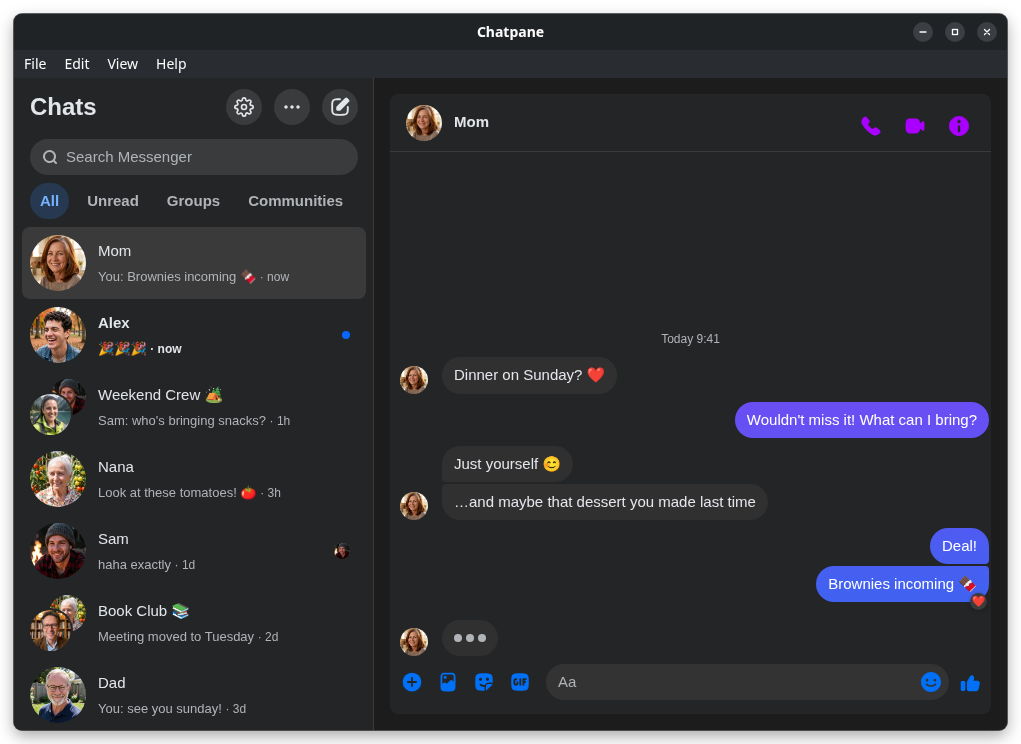
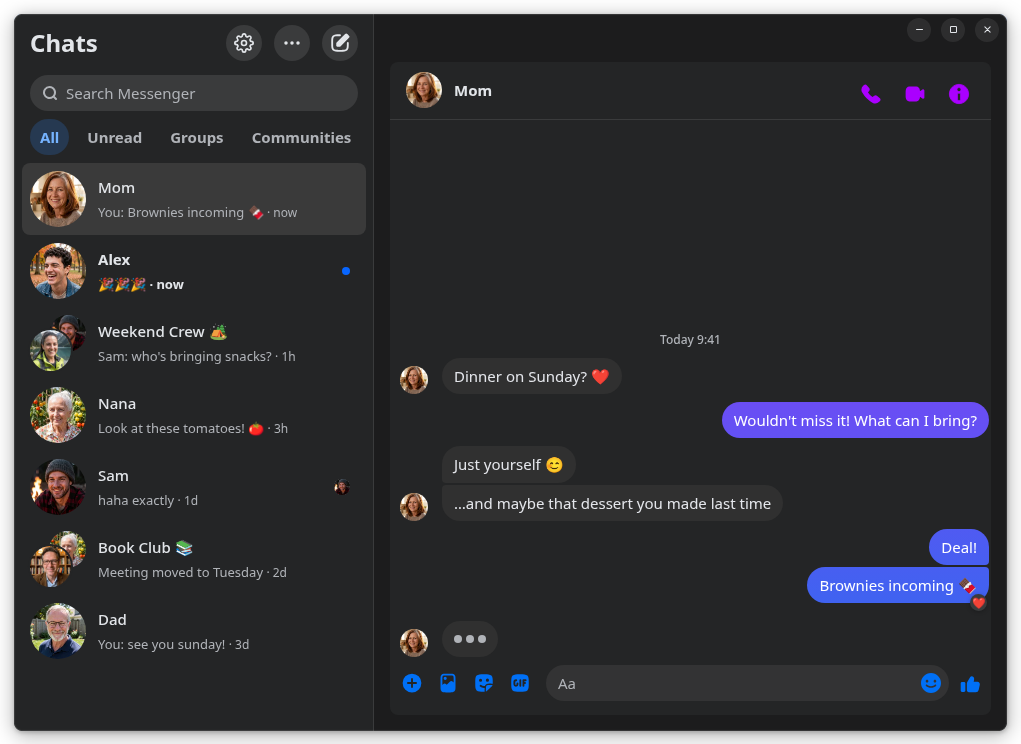
docs: show 3.x window controls in the Linux screenshots
The Linux store screenshots still showed a KDE title bar and menu bar.
Since 3.0, floating Linux desktops get no title bar and Chatpane draws its
own round window buttons. Re-render both from the site's Linux mock.

diff --git a/packaging/screenshots/README.md b/packaging/screenshots/README.md
@@ -6,10 +6,14 @@ real conversations, contact names, photos, notifications, IDs, or personal deskt
 None of the images in `docs/screenshots/` are captures of the app. They are
 renders of the website's window mock in `docs/index.html`.
 
-- **Linux** (`chatpane-linux-en-*.png`): the mock framed as a KDE Breeze window
-  with the title `Chatpane` and a File, Edit, View and Help menu bar. Both PNGs
-  are 1021 × 744 pixels. Light is the default AppStream screenshot; use dark
-  first and light second in the Snap listing.
+- **Linux** (`chatpane-linux-en-*.png`): the mock in its Linux mode, as Chatpane
+  3.x looks on a floating desktop (KDE Plasma, GNOME) with the title bar setting
+  on Automatic: no title bar, Chatpane's own round minimize, maximize and close
+  buttons at the top right, and the menu bar hidden. Rendered with Noto Sans
+  and Noto Color Emoji, with a rounded border and a soft shadow on a
+  transparent background. Both PNGs are 1021 × 744 pixels. Light is the
+  default AppStream screenshot; use dark first and light second in the Snap
+  listing.
 - **Windows** (`chatpane-windows-en-*.png`): the mock in its Windows mode,
   rendered with Segoe UI and Segoe UI Emoji, composited onto a 1920 × 1080
   capture of a clean Windows 11 test VM desktop with its taskbar. The website's
@@ -30,8 +34,8 @@ and IEND chunks: no text, account, location, or EXIF metadata.
 
 | Image | SHA-256 |
 | --- | --- |
[6 lines of base64/hex data omitted]
 
